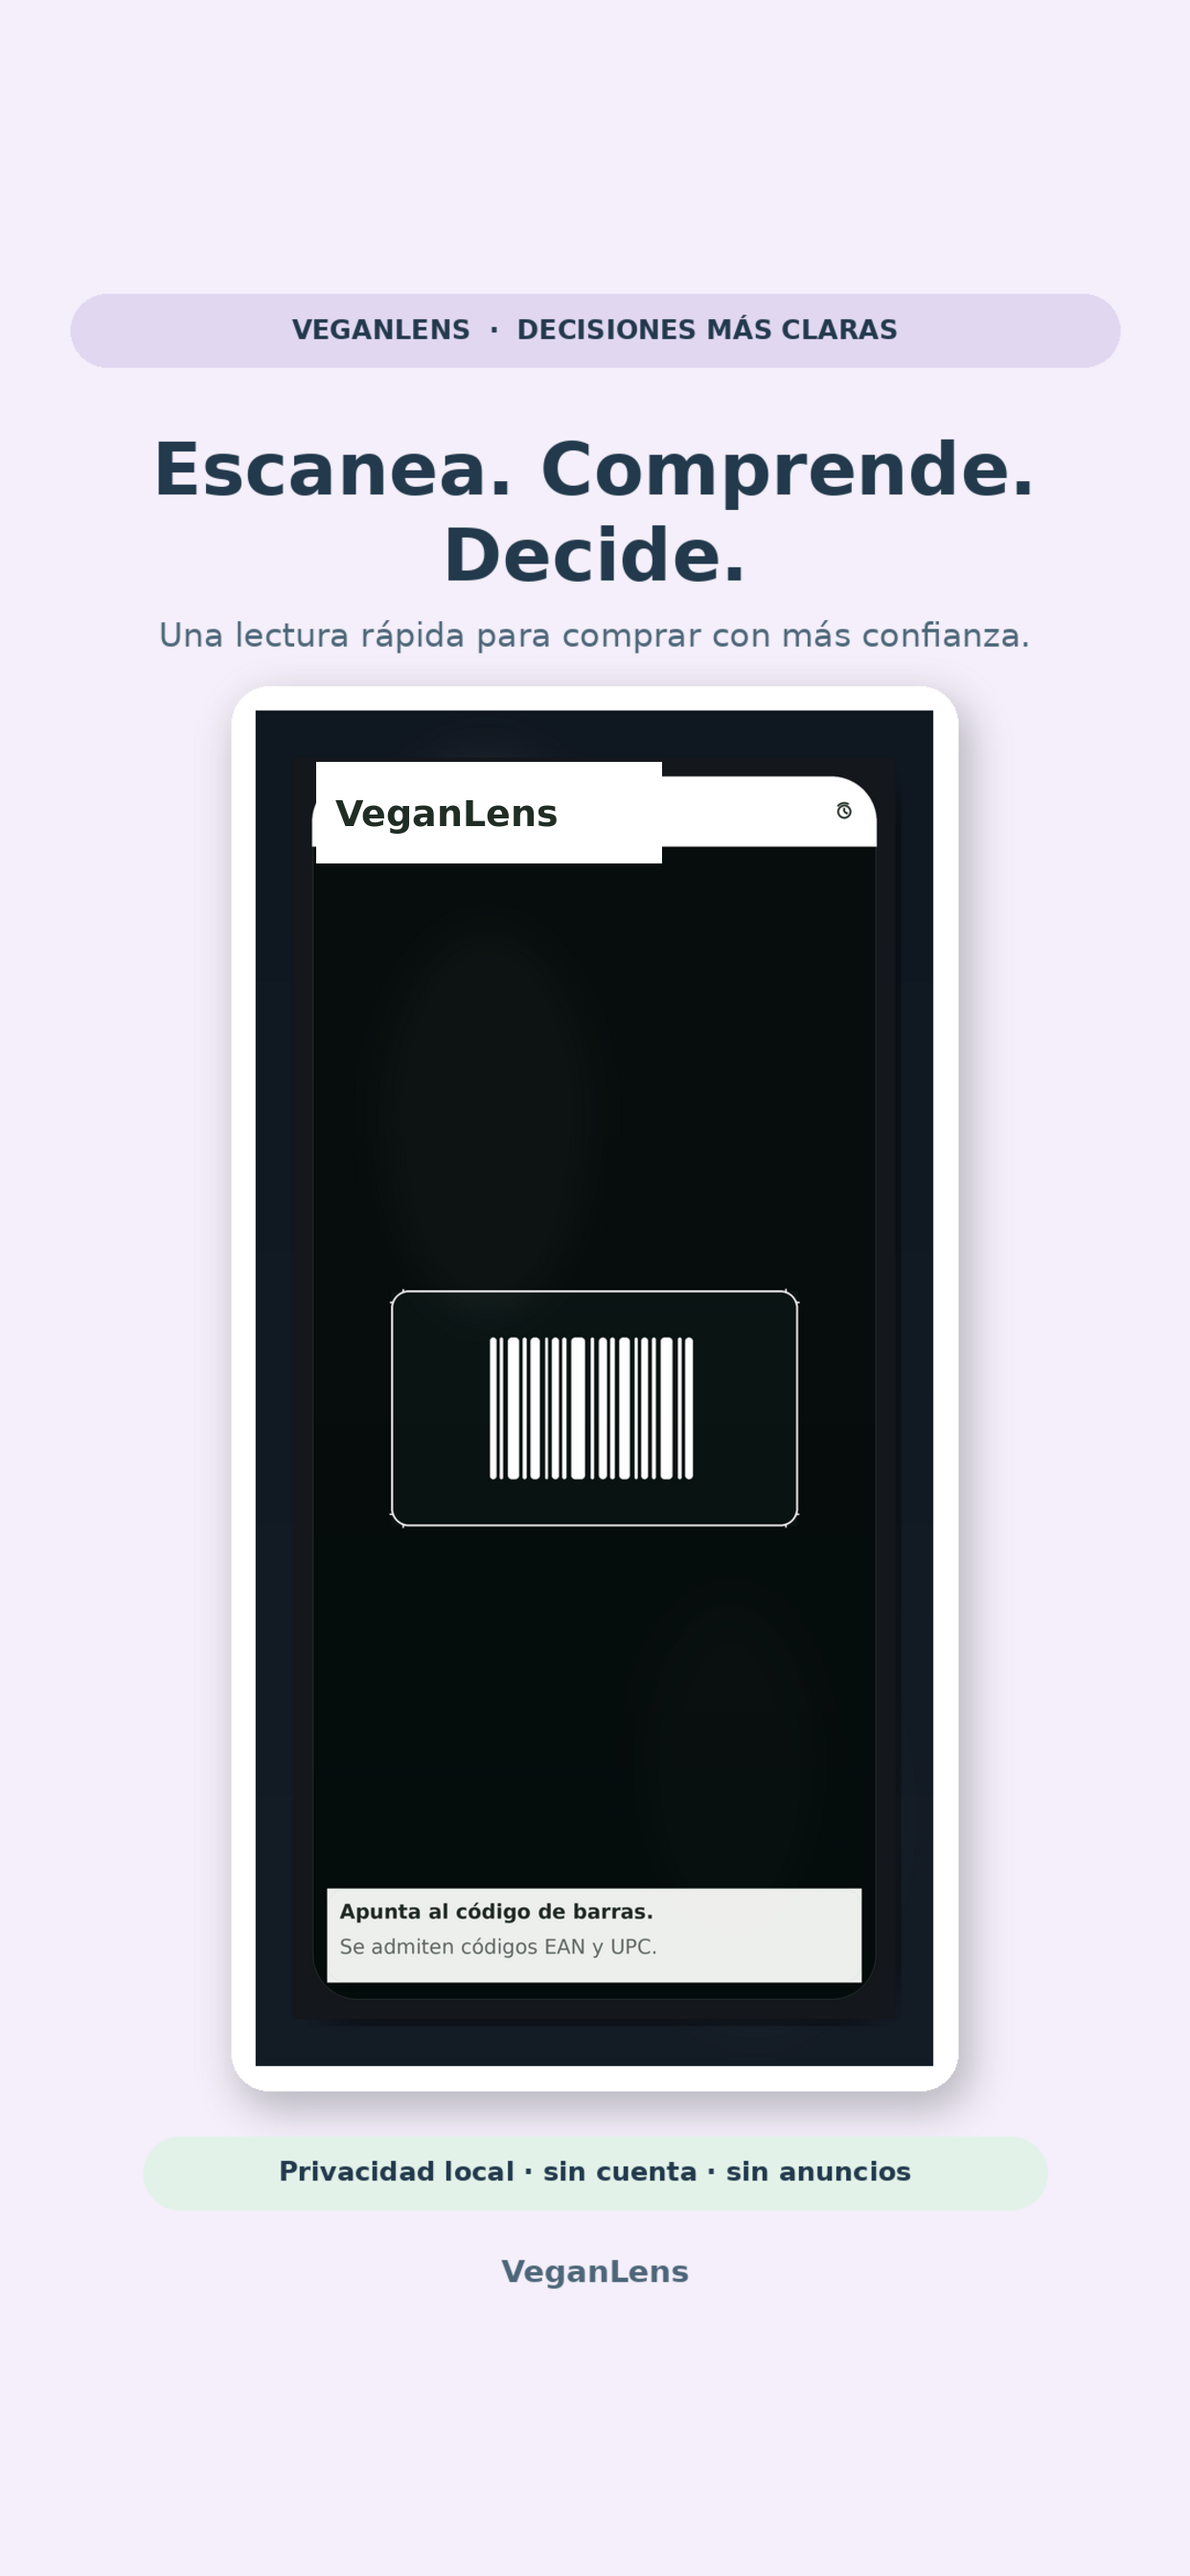
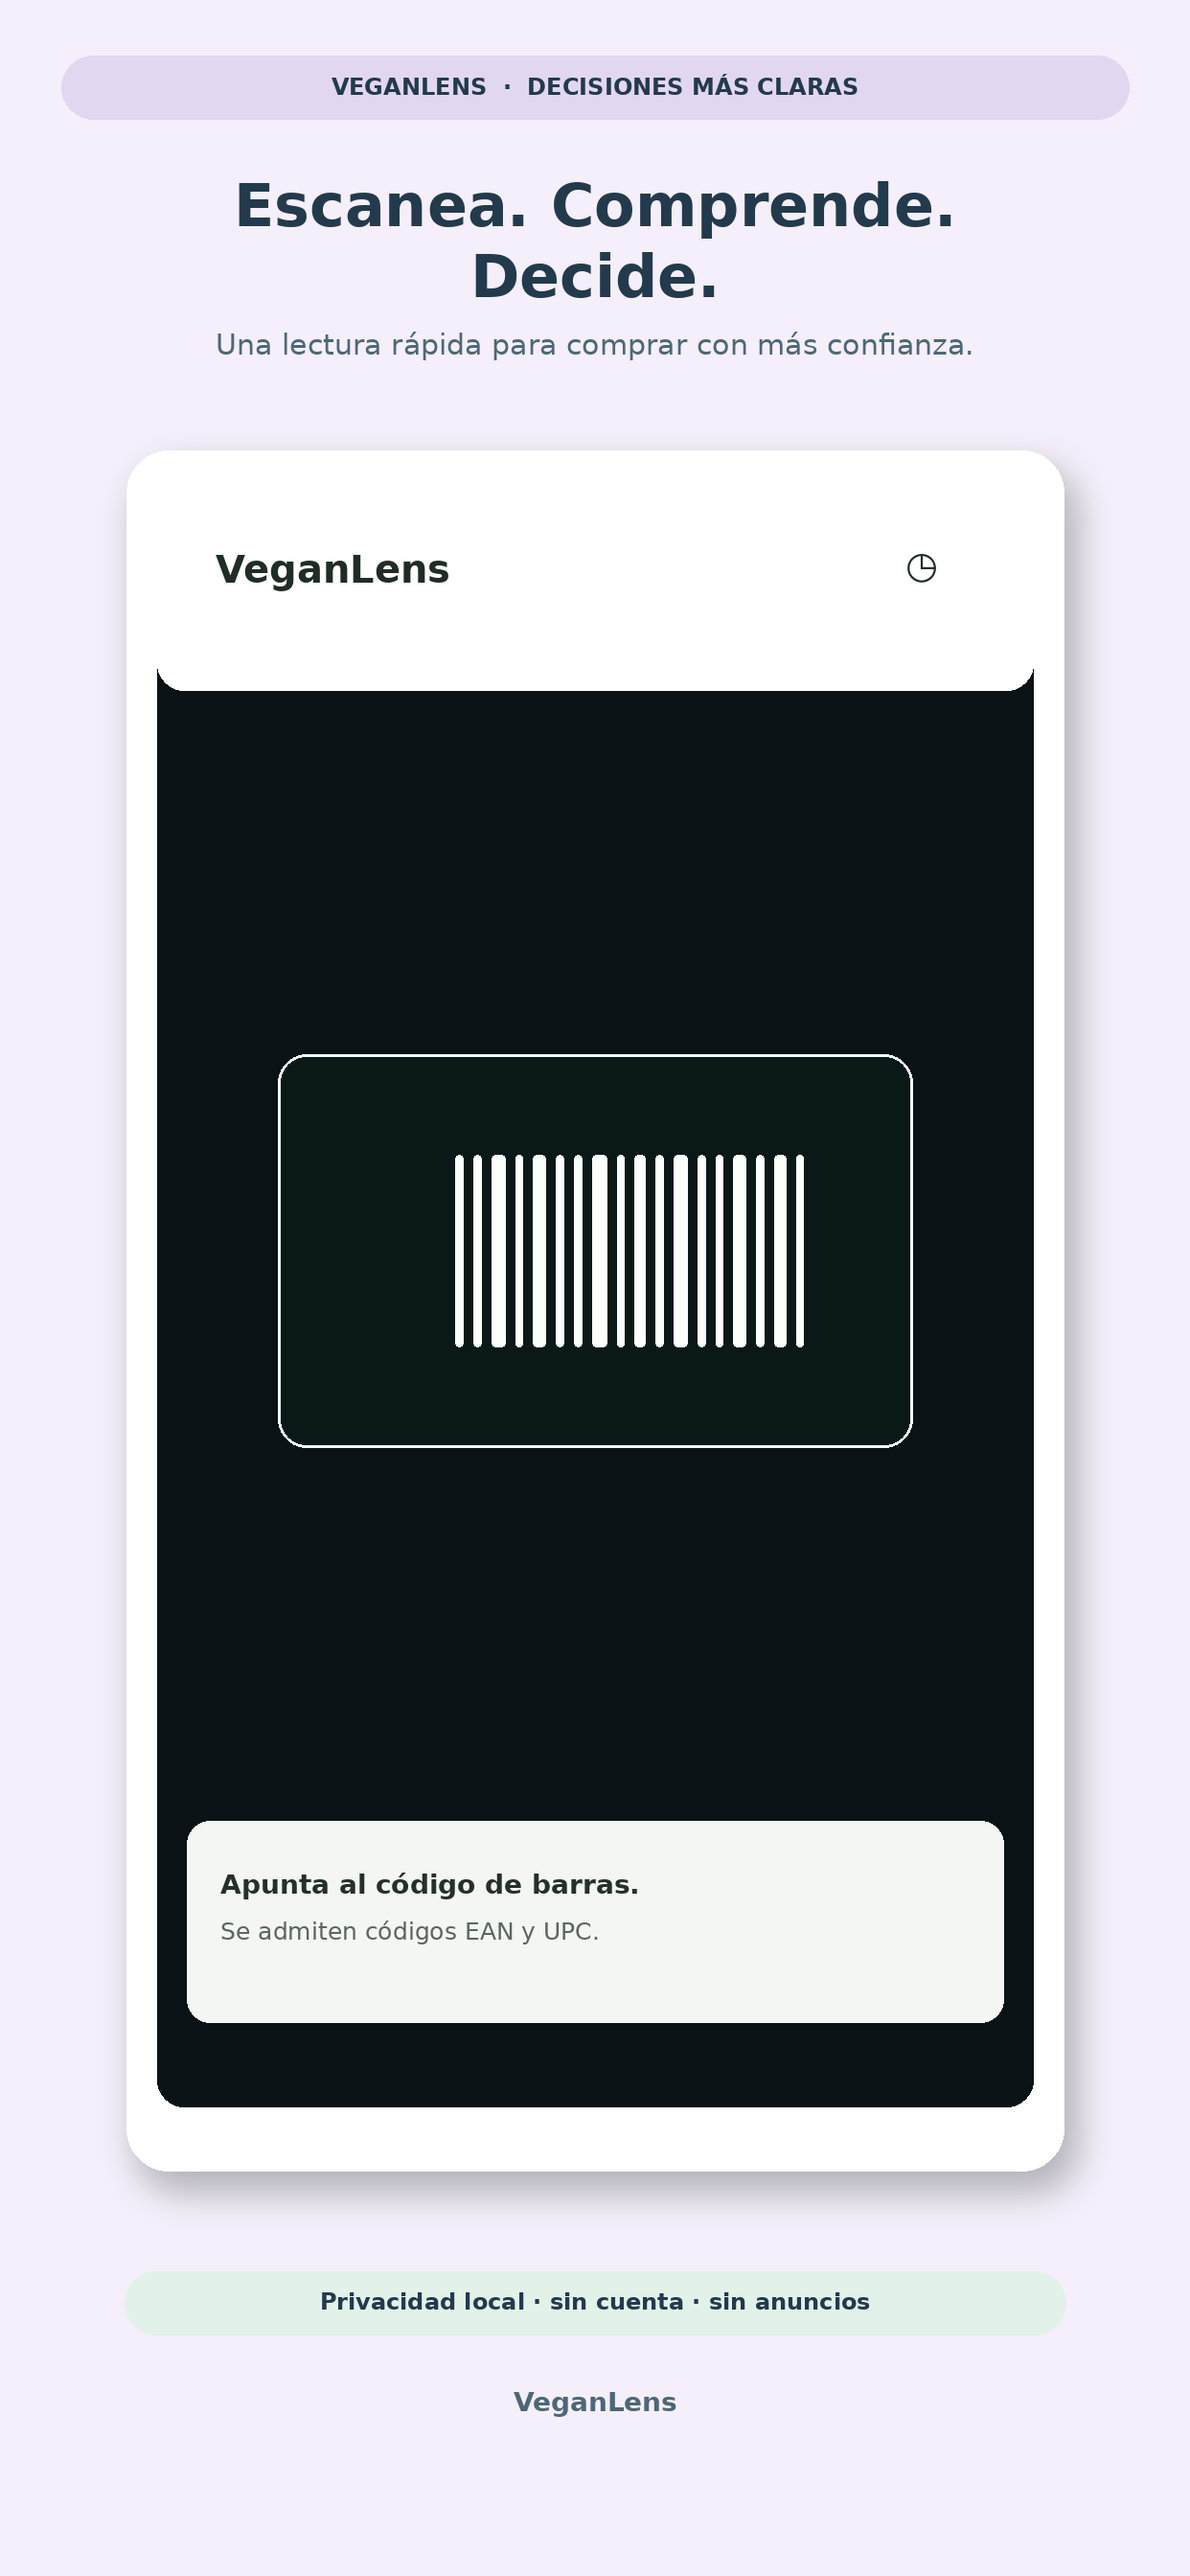
Use clean VeganLens scanner store artwork

Changed region(s): [[0.1224, 0.0312, 0.9179, 0.9375], [0.3671, 0.4375, 0.6731, 0.5938], [0.306, 0.5312, 0.3366, 0.5625]]

diff --git a/CHANGELOG.es.md b/CHANGELOG.es.md
@@ -10,6 +10,8 @@ versión para que App Store Connect pueda ofrecer notas en los dos idiomas.
 
 ## [Sin publicar]
 
+- El arte promocional del escáner usa ahora una cabecera VeganLens limpia, sin superponer texto sobre la captura antigua.
+
 - El conjunto promocional incluye ahora una pantalla completa de resultado apto, con veredicto, confianza, evidencia, ingredientes y alérgenos.
 
 - Las capturas de tienda de iOS usan ahora las dimensiones solicitadas de 1242×2688 px y el arte del escáner utiliza el nombre VeganLens.

diff --git a/CHANGELOG.md b/CHANGELOG.md
@@ -8,6 +8,8 @@ version so that App Store Connect can provide notes in both languages.
 
 ## [Unreleased]
 
+- The scanner store artwork now uses a clean VeganLens header instead of overlaying text on the older screenshot.
+
 - The promotional set now includes a complete positive-result screen with verdict, confidence, evidence, ingredients, and allergens.
 
 - iOS store screenshots now use the requested 1242×2688 px dimensions, and the scanner artwork uses the VeganLens name.
